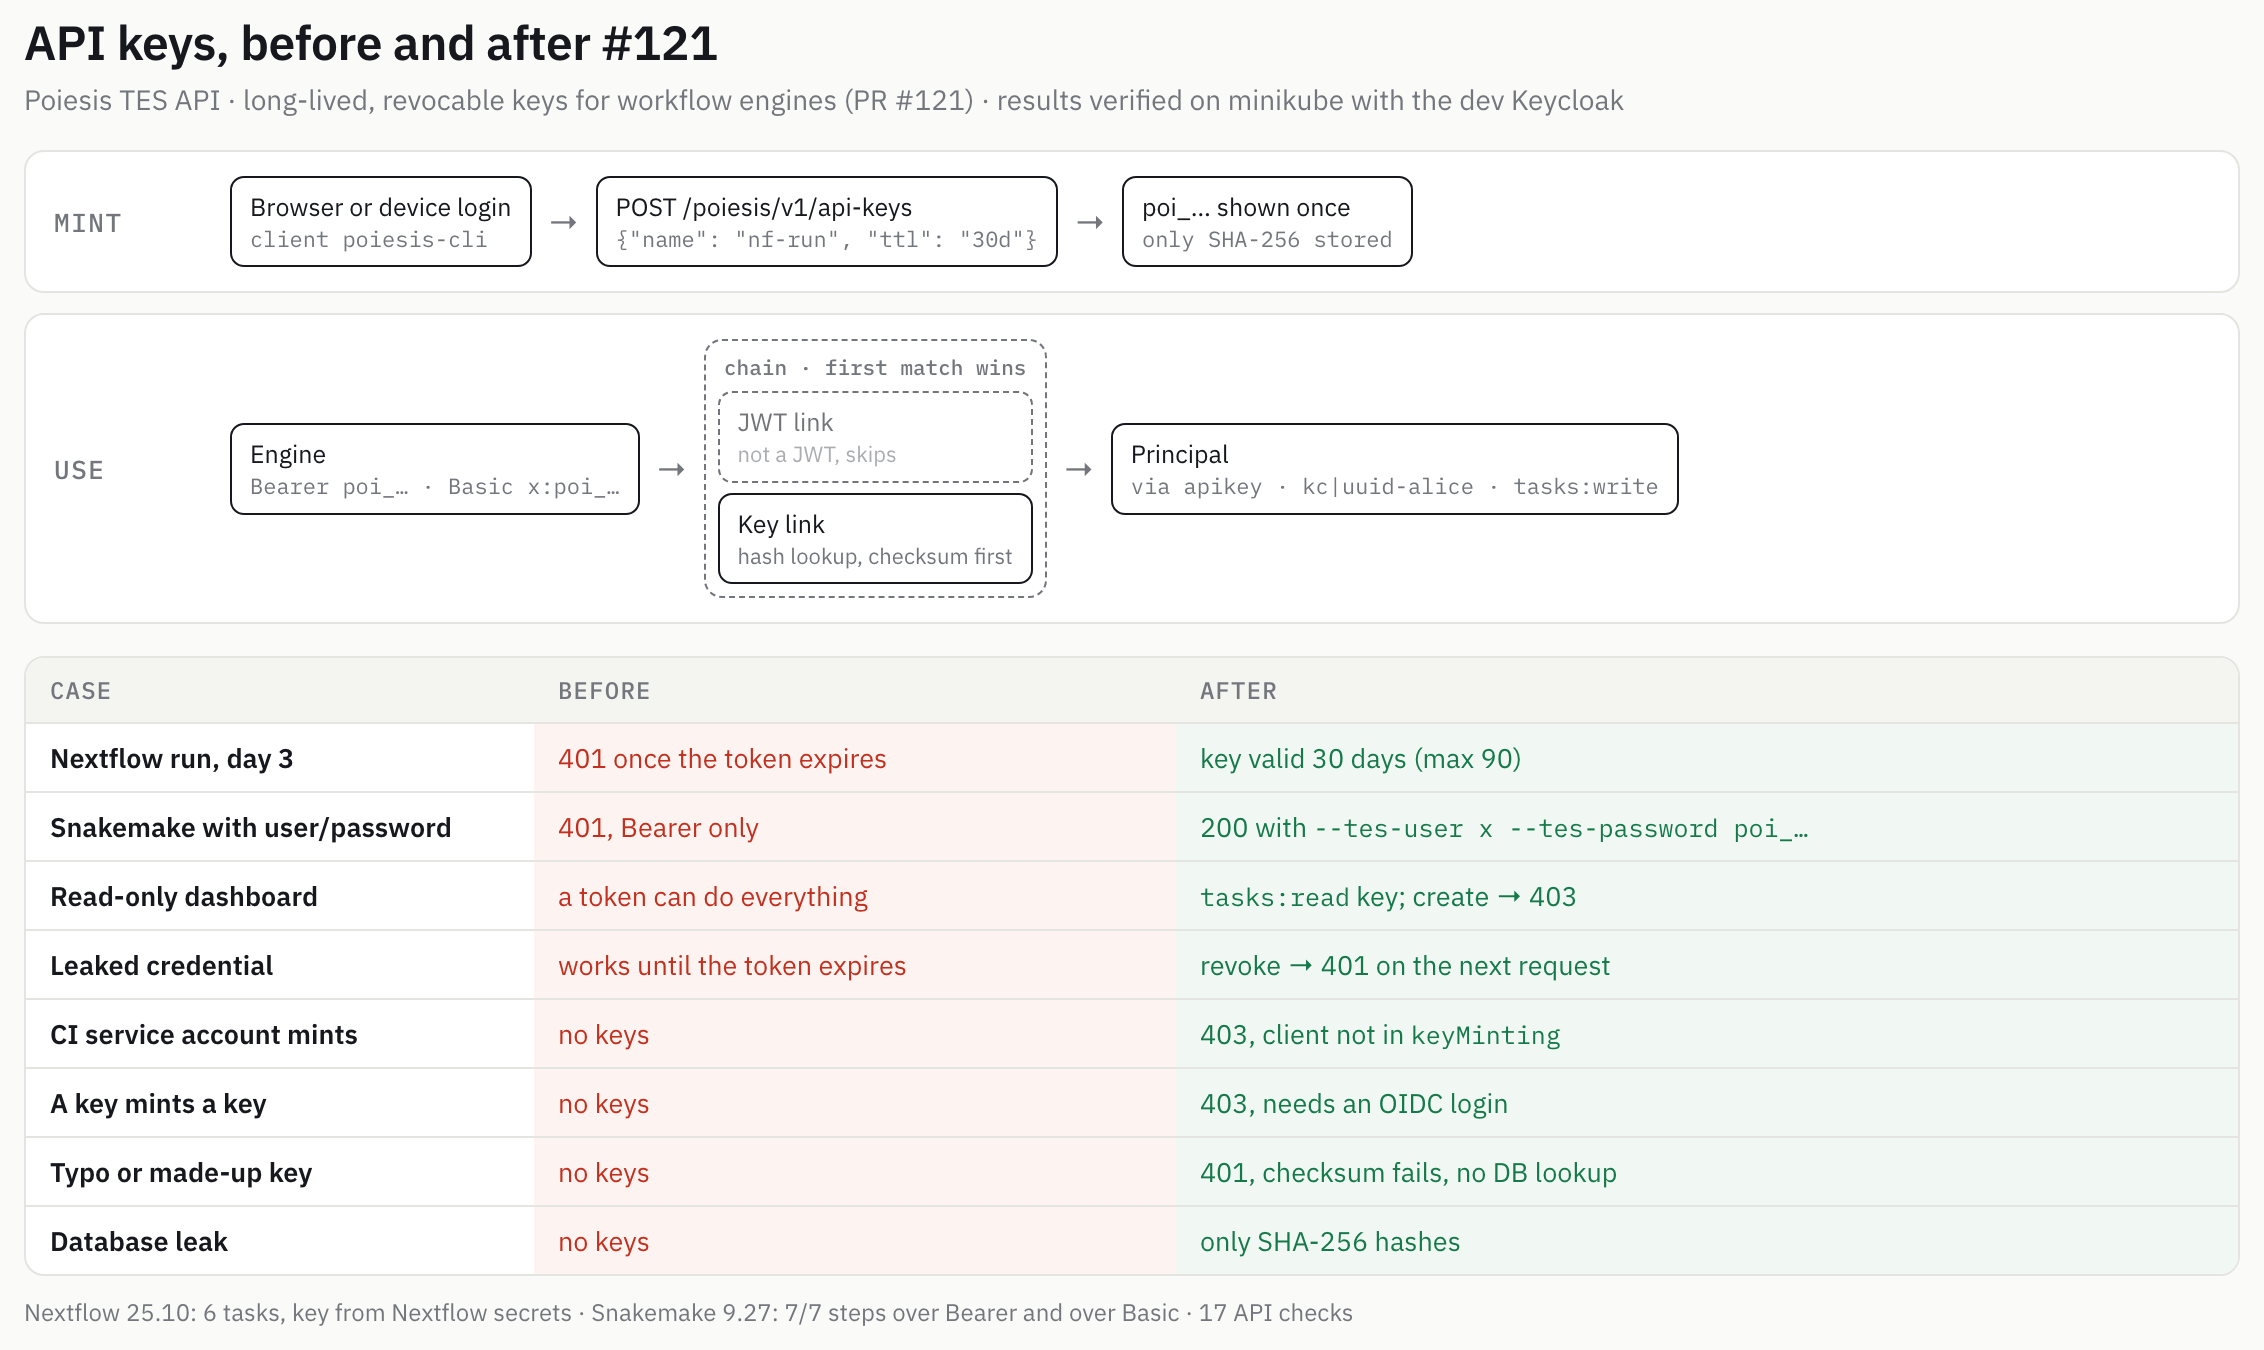
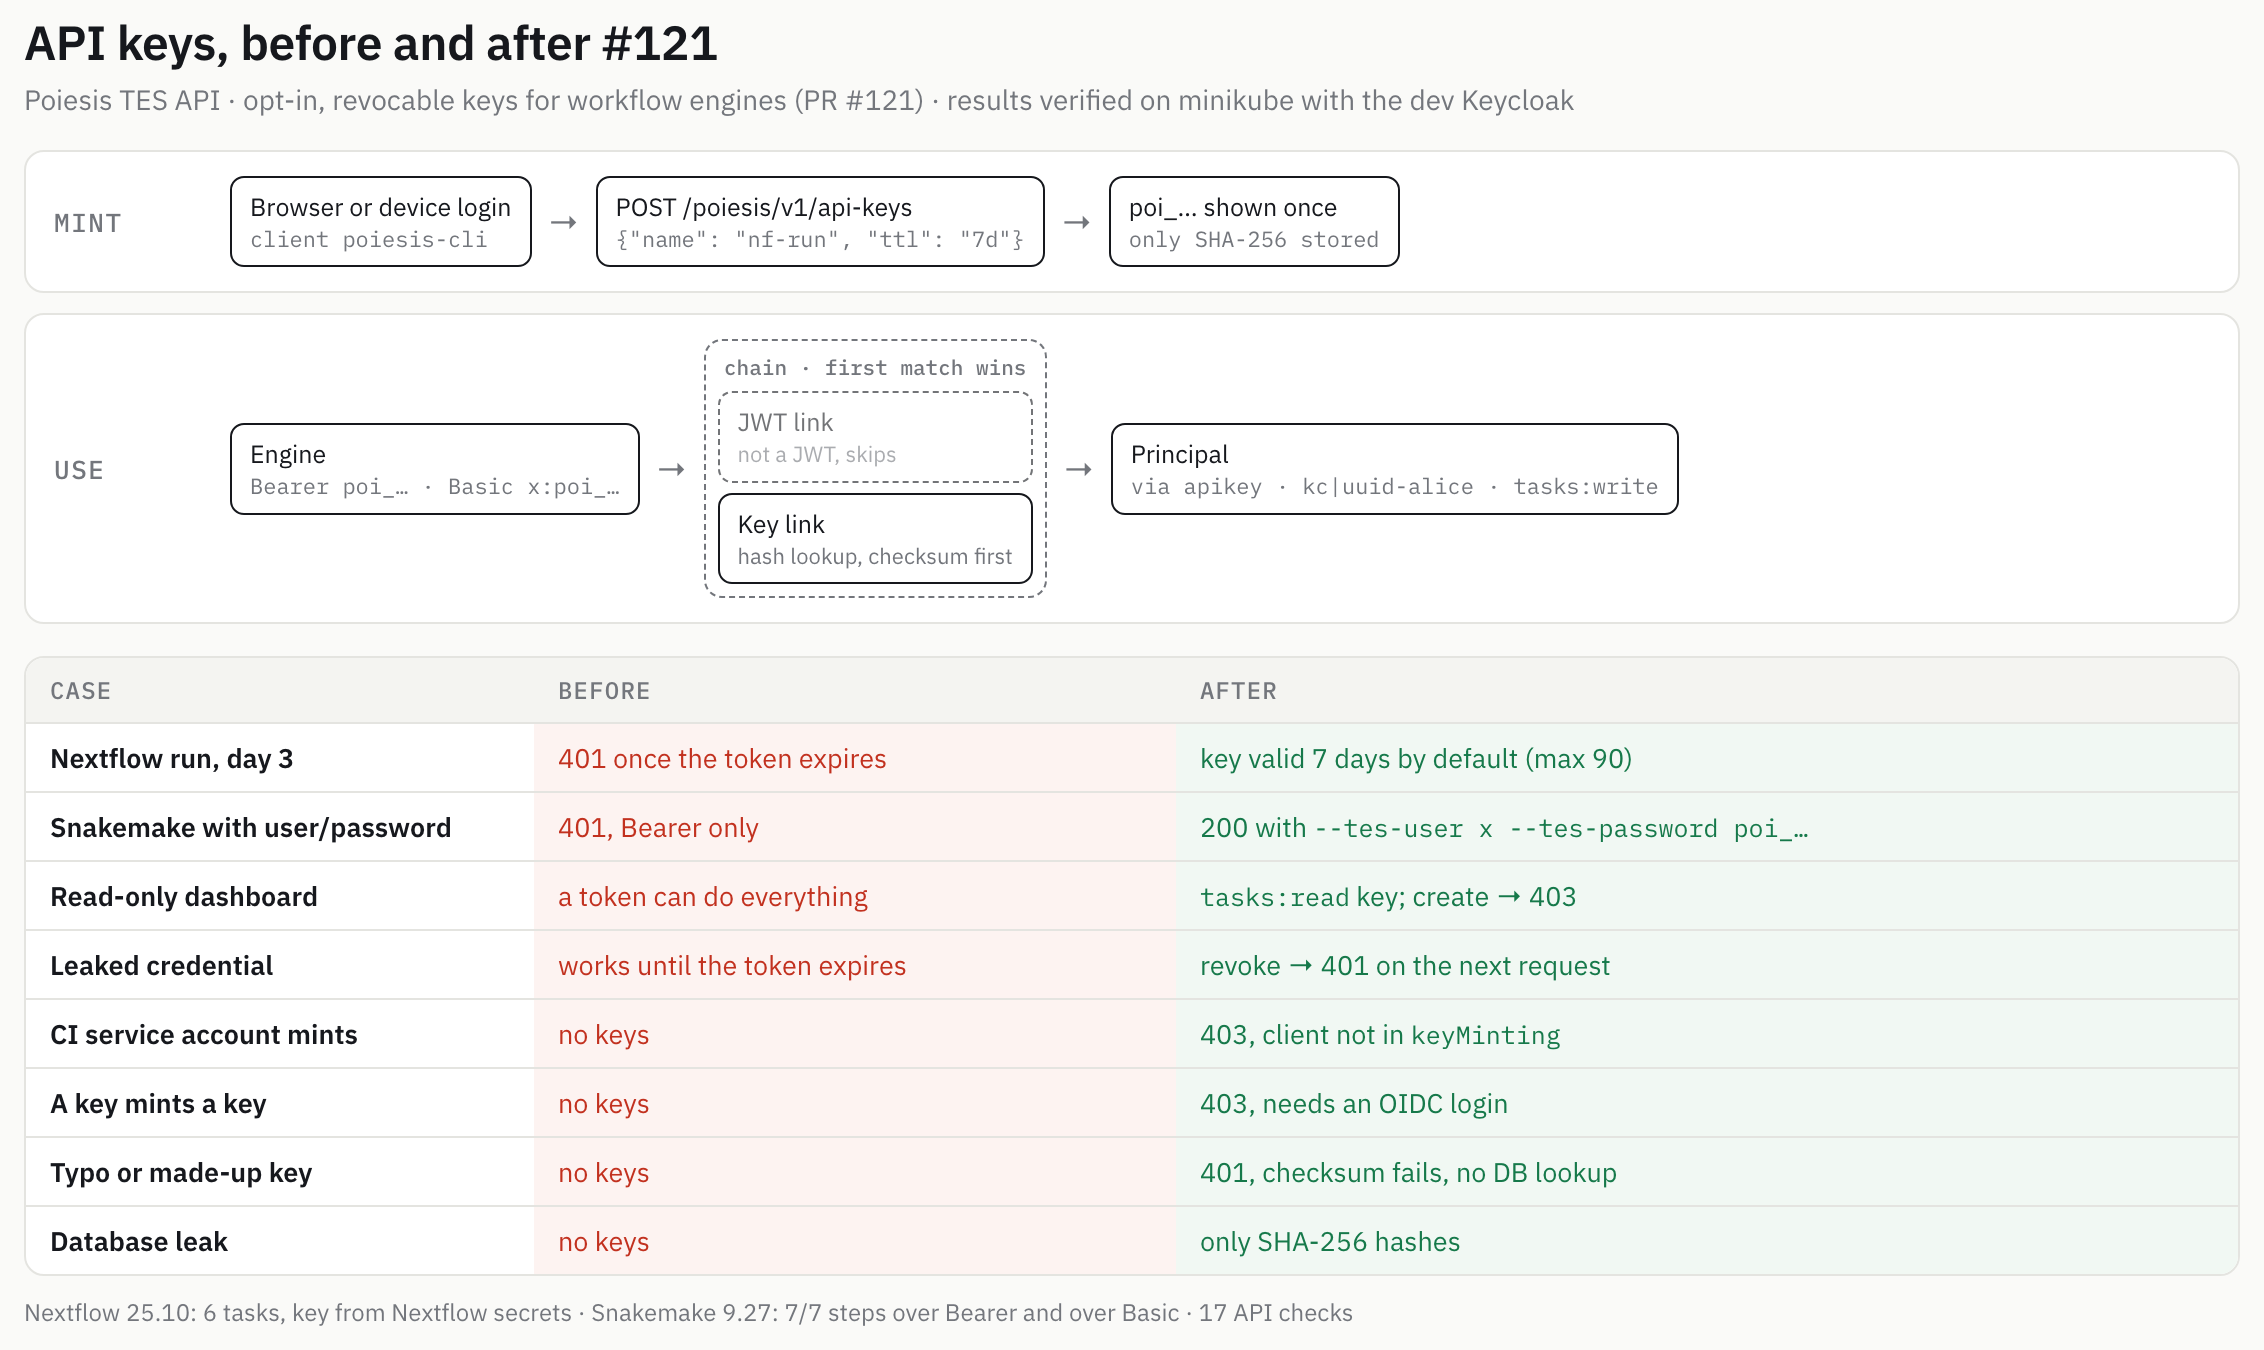
docs(auth): document opt-in keys, 7-day default and key ages

Changed region(s): [[0.0928, 0.0622, 0.7111, 0.0933], [0.4329, 0.1556, 0.6184, 0.1867], [0.5875, 0.56, 0.7111, 0.5911]]

diff --git a/docs/app/docs/deploy/api-keys.md b/docs/app/docs/deploy/api-keys.md
@@ -20,11 +20,14 @@ For engine settings (Nextflow, Snakemake, cwl-tes, py-tes), see
 
 ## Configuration
 
+API keys are **off by default**: they are an add-on for clients that
+can't refresh tokens. Turn them on, and set the limits:
+
 ```yaml
 auth:
   apiKeys:
-    enabled: true      # POIESIS_AUTH_API_KEYS_ENABLED
-    defaultTtl: 30d    # POIESIS_AUTH_API_KEYS_DEFAULT_TTL
+    enabled: true      # POIESIS_AUTH_API_KEYS_ENABLED (default false)
+    defaultTtl: 7d     # POIESIS_AUTH_API_KEYS_DEFAULT_TTL
     maxTtl: 90d        # POIESIS_AUTH_API_KEYS_MAX_TTL
     maxPerOwner: 20    # POIESIS_AUTH_API_KEYS_MAX_PER_OWNER
 ```
@@ -264,6 +267,7 @@ What protects keys:
 | Key extends itself | Keys can't mint, list or revoke keys |
 | Stolen token turned into a long-lived key | Only `keyMinting.clients` may mint, optionally only shortly after a login (`maxAuthAge`); delegated tokens can't |
 | Distrusted issuer | Removing it from `auth.issuers` disables its keys |
+| Stale claims | The decision service gets `key_age` and `snapshot_age` and may refuse old keys |
 | Key committed to a repository | The `poi_` prefix and checksum let secret scanners find keys and confirm them without false positives; revoke what they find |
 | Junk credentials | Malformed keys and wrong checksums get `401` without a database lookup |
 

diff --git a/docs/app/docs/deploy/authorization.md b/docs/app/docs/deploy/authorization.md
@@ -129,7 +129,10 @@ retries) and allows only on `200` with `{"decision": true}`.
 - `subject.properties.via` names how the caller authenticated: `oidc`
   for an access token, `apikey` for an [API key](./api-keys.md).
   `credential_id` identifies the credential when there is one: the
-  token's `jti`, or the key's id. For a key, `iss`, `sub`, `client_id`
+  token's `jti`, or the key's id. For a key, `key_age` and
+  `snapshot_age` give the seconds since it was minted (the snapshot is
+  taken then), so a policy can refuse old keys or stale claims. For a
+  key, `iss`, `sub`, `client_id`
   and `claims` come from the snapshot of the minting token (see
   [Deprovisioning lag](./api-keys.md#deprovisioning-lag)), so a
   policy written for tokens applies to keys unchanged; `scope` is the

diff --git a/docs/app/docs/usage/workflow-engines.md b/docs/app/docs/usage/workflow-engines.md
@@ -3,7 +3,8 @@
 Workflow engines read one credential when they start and use it for the
 whole run. Give them a Poiesis [API key](../deploy/api-keys.md), not an
 access token: a token expires within the hour, a key lasts as long as
-you minted it for (30 days by default).
+you minted it for (7 days by default, if your operator turned keys
+on).
 
 Mint a key first, from the Swagger UI at `<API URL>/docs` or with
 `curl` (see [Minting a key](../deploy/api-keys.md#minting-a-key)), and
